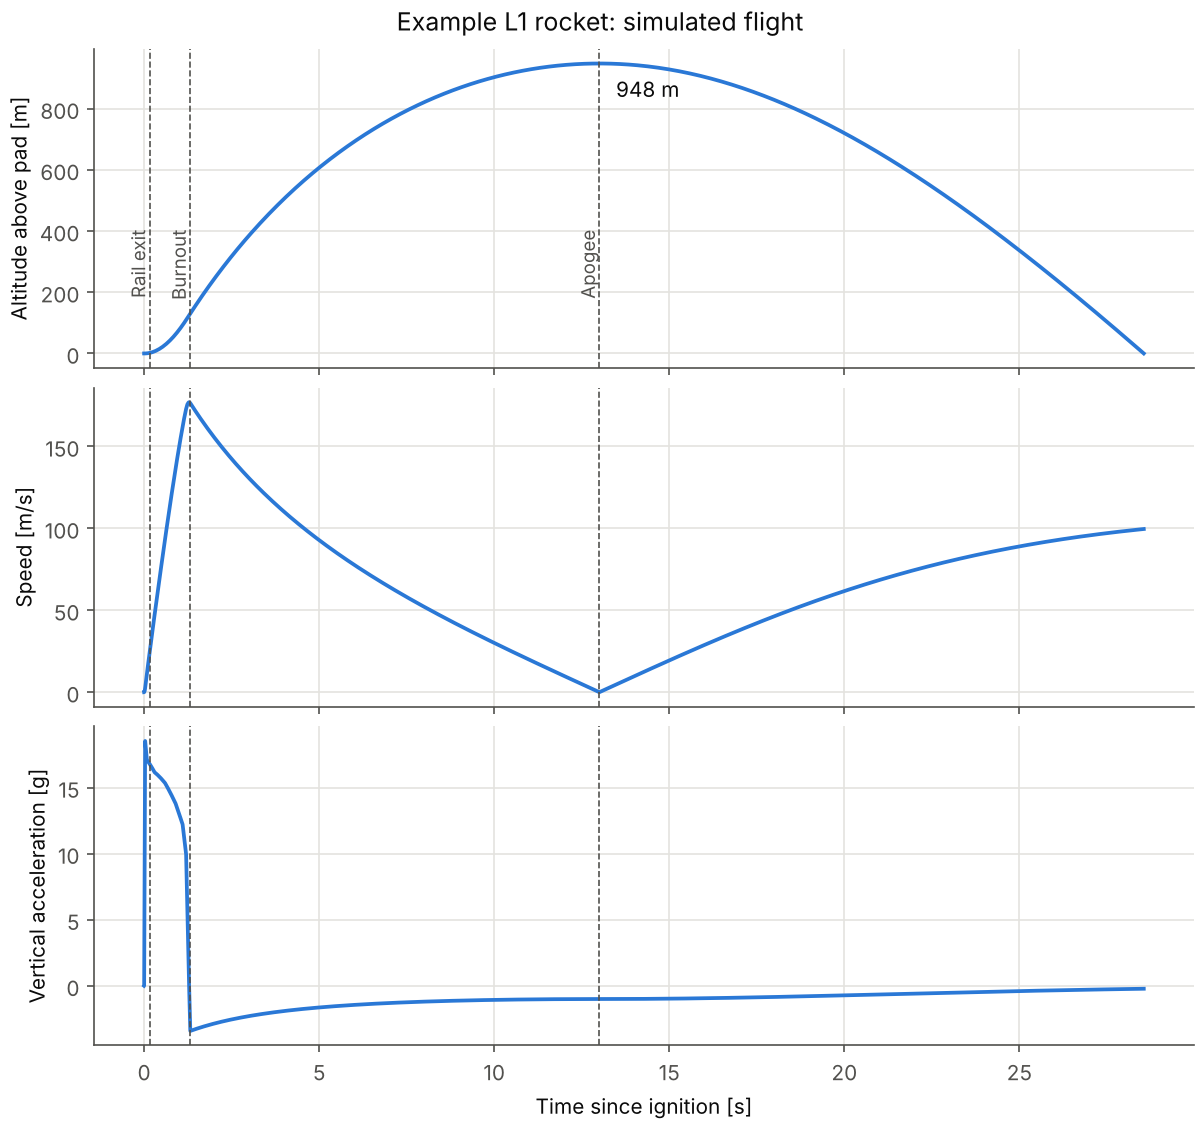
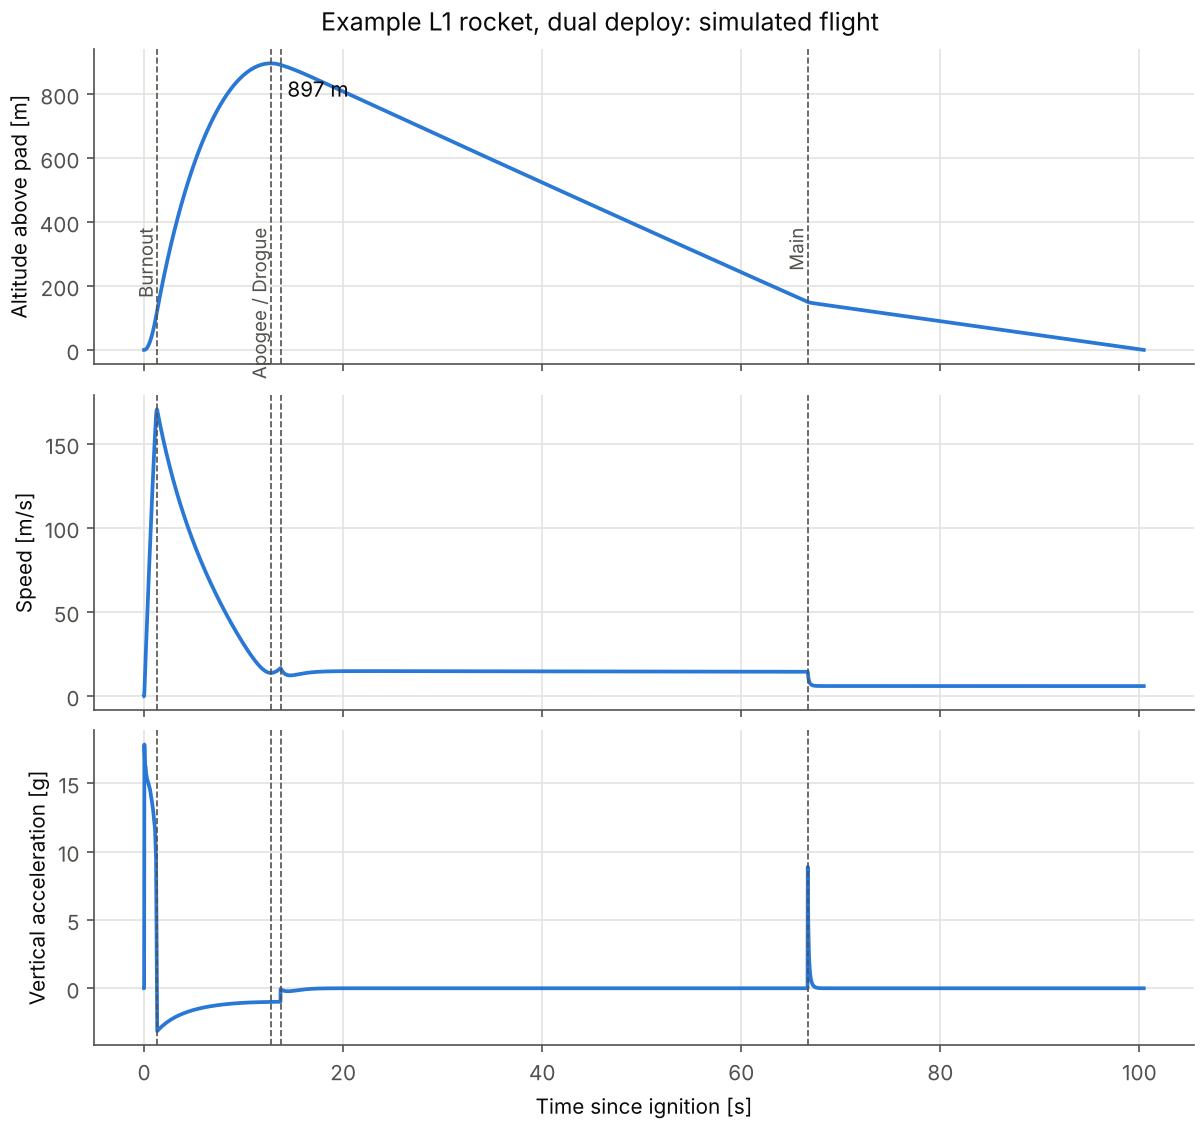
Add single and dual deploy examples and update README
Claude-Session: https://claude.ai/code/session_01WicUGWS3UTmG3FX4m26Y4u

diff --git a/README.md b/README.md
@@ -4,18 +4,21 @@
 ![Python 3.11+](https://img.shields.io/badge/python-3.11%2B-blue)
 ![License: MIT](https://img.shields.io/badge/license-MIT-green)
 
-**A 2D rocket flight simulator for model and high-power rockets, written in Python.** It
-predicts apogee, max velocity, max acceleration, max dynamic pressure, rail exit speed and
-landing conditions from a rocket definition and a real motor thrust curve.
+**A 2D rocket flight simulator for model and high-power rockets, written in Python.** From a
+rocket definition, a motor thrust curve and its parachutes, it predicts apogee, max velocity,
+acceleration and dynamic pressure, rail exit speed, parachute deployment conditions, landing
+speed and wind drift.
 
-> **Status: work in progress.** The core flight model (milestones 1 and 2) is done and checked
-> against closed-form solutions. Parachute recovery, stability (Barrowman), OpenRocket validation
+> **Status: work in progress.** The flight model and parachute recovery (milestones 1 to 3) are
+> done and checked against closed-form solutions. Stability (Barrowman), OpenRocket validation
 > and the design optimizer are next; see the [roadmap](#roadmap).
 
 ![Simulated flight of the example rocket](docs/images/example_flight.png)
 
-*Example L1 rocket on a synthetic 38 mm H motor. Descent is ballistic until the recovery model
-lands in milestone 3.*
+![Flight path of the example rocket](docs/images/example_trajectory.png)
+
+*Example L1 rocket on a synthetic 38 mm H motor, flown dual deploy in a 4 m/s wind: a 0.3 m
+drogue opens 1 s after apogee and a 0.9 m main opens at 150 m.*
 
 ## Quickstart
 
@@ -24,23 +27,29 @@ git clone https://github.com/aroni06/rocket-project.git
 cd rocket-project
 pip install -e ".[dev]"
 
-apogee simulate configs/example_l1.toml --plot flight.png --csv flight.csv
+apogee simulate configs/example_dual_deploy.toml --plot flight.png --trajectory path.png
 pytest
 ```
 
 ```
 Motor: Synthetic_H250 (H, 260.8 N s, 1.32 s burn)
-Flight summary: Example L1 rocket
-  Apogee                     947.69 m
-  Time to apogee              13.00 s
-  Max speed                  176.99 m/s
-  Max Mach                     0.52
-  Max acceleration            18.52 g
-  Rail exit speed             24.72 m/s
+Flight summary: Example L1 rocket, dual deploy
+  Apogee                                   896.58 m
+  Max speed                                170.48 m/s
+  Max ascent acceleration                   17.83 g
+  Rail exit speed                           24.24 m/s
+  Drogue descent rate                       13.88 m/s
+  Main deploy altitude                     150.00 m
+  Main opening load (upper bound)            8.88 g
+  Landing descent rate                       4.38 m/s
+  Landing downrange                         88.62 m
   ...
 ```
 
-Rockets are defined in TOML ([example](configs/example_l1.toml)). Motors are RASP `.eng`
+Rockets are defined in TOML: a [single-deploy example](configs/example_l1.toml) using the
+motor's ejection charge, and a [dual-deploy example](configs/example_dual_deploy.toml). Each
+parachute opens on a trigger plus an optional delay: `apogee`, descending through a set
+`altitude`, or `burnout` (a motor ejection delay). Motors are RASP `.eng`
 files, the format published by [thrustcurve.org](https://www.thrustcurve.org). The bundled
 `Synthetic_H250.eng` is a made-up curve so the example runs out of the box; download a real
 `.eng` for real predictions.
@@ -52,7 +61,7 @@ from apogee import load_config, simulate
 
 cfg = load_config("configs/example_l1.toml")
 result = simulate(cfg.rocket, cfg.environment, cfg.rail)
-print(result.apogee, result.max_speed, result.rail_exit_speed)
+print(result.apogee, result.rail_exit_speed, result.landing_descent_rate)
 ```
 
 ## Model
@@ -74,14 +83,23 @@ $$
 | Gravity | Inverse-square, g = g0 (R / (R + h))^2 |
 | Attitude | Along the rail until rail exit, then along the air-relative velocity (zero angle of attack) |
 | Wind | Constant horizontal wind |
+| Parachutes | Drag 1/2 rho v^2 Cd A per canopy against the air-relative velocity; triggered at apogee, at an altitude, or by motor ejection delay; drogues stay attached after the main opens |
 
 The flight is integrated phase by phase with SciPy's `solve_ivp` (DOP853, adaptive step), and
-every discontinuity lands on a step boundary: each thrust-curve corner, rail exit, burnout and
-apogee. Rail exit, apogee, landing and the speed peak are located exactly with event functions
-rather than read off the nearest time step.
+every discontinuity lands on a step boundary: each thrust-curve corner, rail exit, burnout,
+apogee and parachute deployment. Rail exit, apogee, deployment altitudes, landing and the speed
+peak are located exactly with event functions rather than read off the nearest time step.
 
 **Deliberately not modelled:** rotational (6-DOF) dynamics, weathercocking on the rail, wind
 profiles and gusts, Earth rotation, multi-stage vehicles.
+
+**Known limitations:**
+
+- Parachutes inflate instantly, so the reported opening load is an upper bound on the real
+  opening shock.
+- The rocket turns into the relative wind the moment it leaves the rail. A real rocket has
+  rotational inertia and turns more slowly, so the model overpredicts how far upwind it flies in
+  a crosswind (220 m upwind at apogee in the example). OpenRocket comparisons will quantify this.
 
 ## Verification
 
@@ -96,6 +114,10 @@ closed-form answer:
 | Ballistic arc, inverse-square gravity | Specific energy conserved | 1e-8 relative |
 | Solver tolerance 1e-6 vs 1e-11 | Apogee and max speed | 1e-5 relative |
 | Standard atmosphere | T, p, rho at 0, 1, 5, 11 and 20 km vs 1976 tables | 1e-4 relative |
+| Fall under a parachute from apogee | Landing descent rate vs the closed-form quadratic-drag solution | 1e-6 relative |
+| Drogue, then drogue plus main | Steady descent rates vs terminal velocity sqrt(2mg / rho Cd A) | 1e-3 relative |
+| Deployment triggers | Apogee + delay, set altitude, burnout + ejection delay | exact event times |
+| Descent in wind | Horizontal speed under canopy settles at wind speed | 1e-3 relative |
 
 Comparison against OpenRocket on real rocket designs comes with milestone 5.
 
@@ -107,6 +129,7 @@ src/apogee/
   motor.py         .eng parser, thrust(t), mass(t)
   rocket.py        rocket definition
   environment.py   gravity, wind, launch site
+  recovery.py      parachutes, deployment triggers, terminal velocity
   flight.py        equations of motion, phases, events, FlightResult
   config.py        TOML loader
   plots.py         standard flight plots
@@ -120,7 +143,7 @@ tests/             unit and analytic verification tests
 
 - [x] 1. Repo skeleton, packaging, CI
 - [x] 2. Core 2D flight model with analytic verification
-- [ ] 3. Recovery: single and dual deploy, landing speed, wind drift
+- [x] 3. Recovery: single and dual deploy, landing speed, wind drift
 - [ ] 4. Aerodynamics and stability: C_D(Mach) import, Barrowman CP, CG, static margin
 - [ ] 5. Validation against OpenRocket on 2 to 3 rockets
 - [ ] 6. Parameter sweeps and constrained design optimizer
